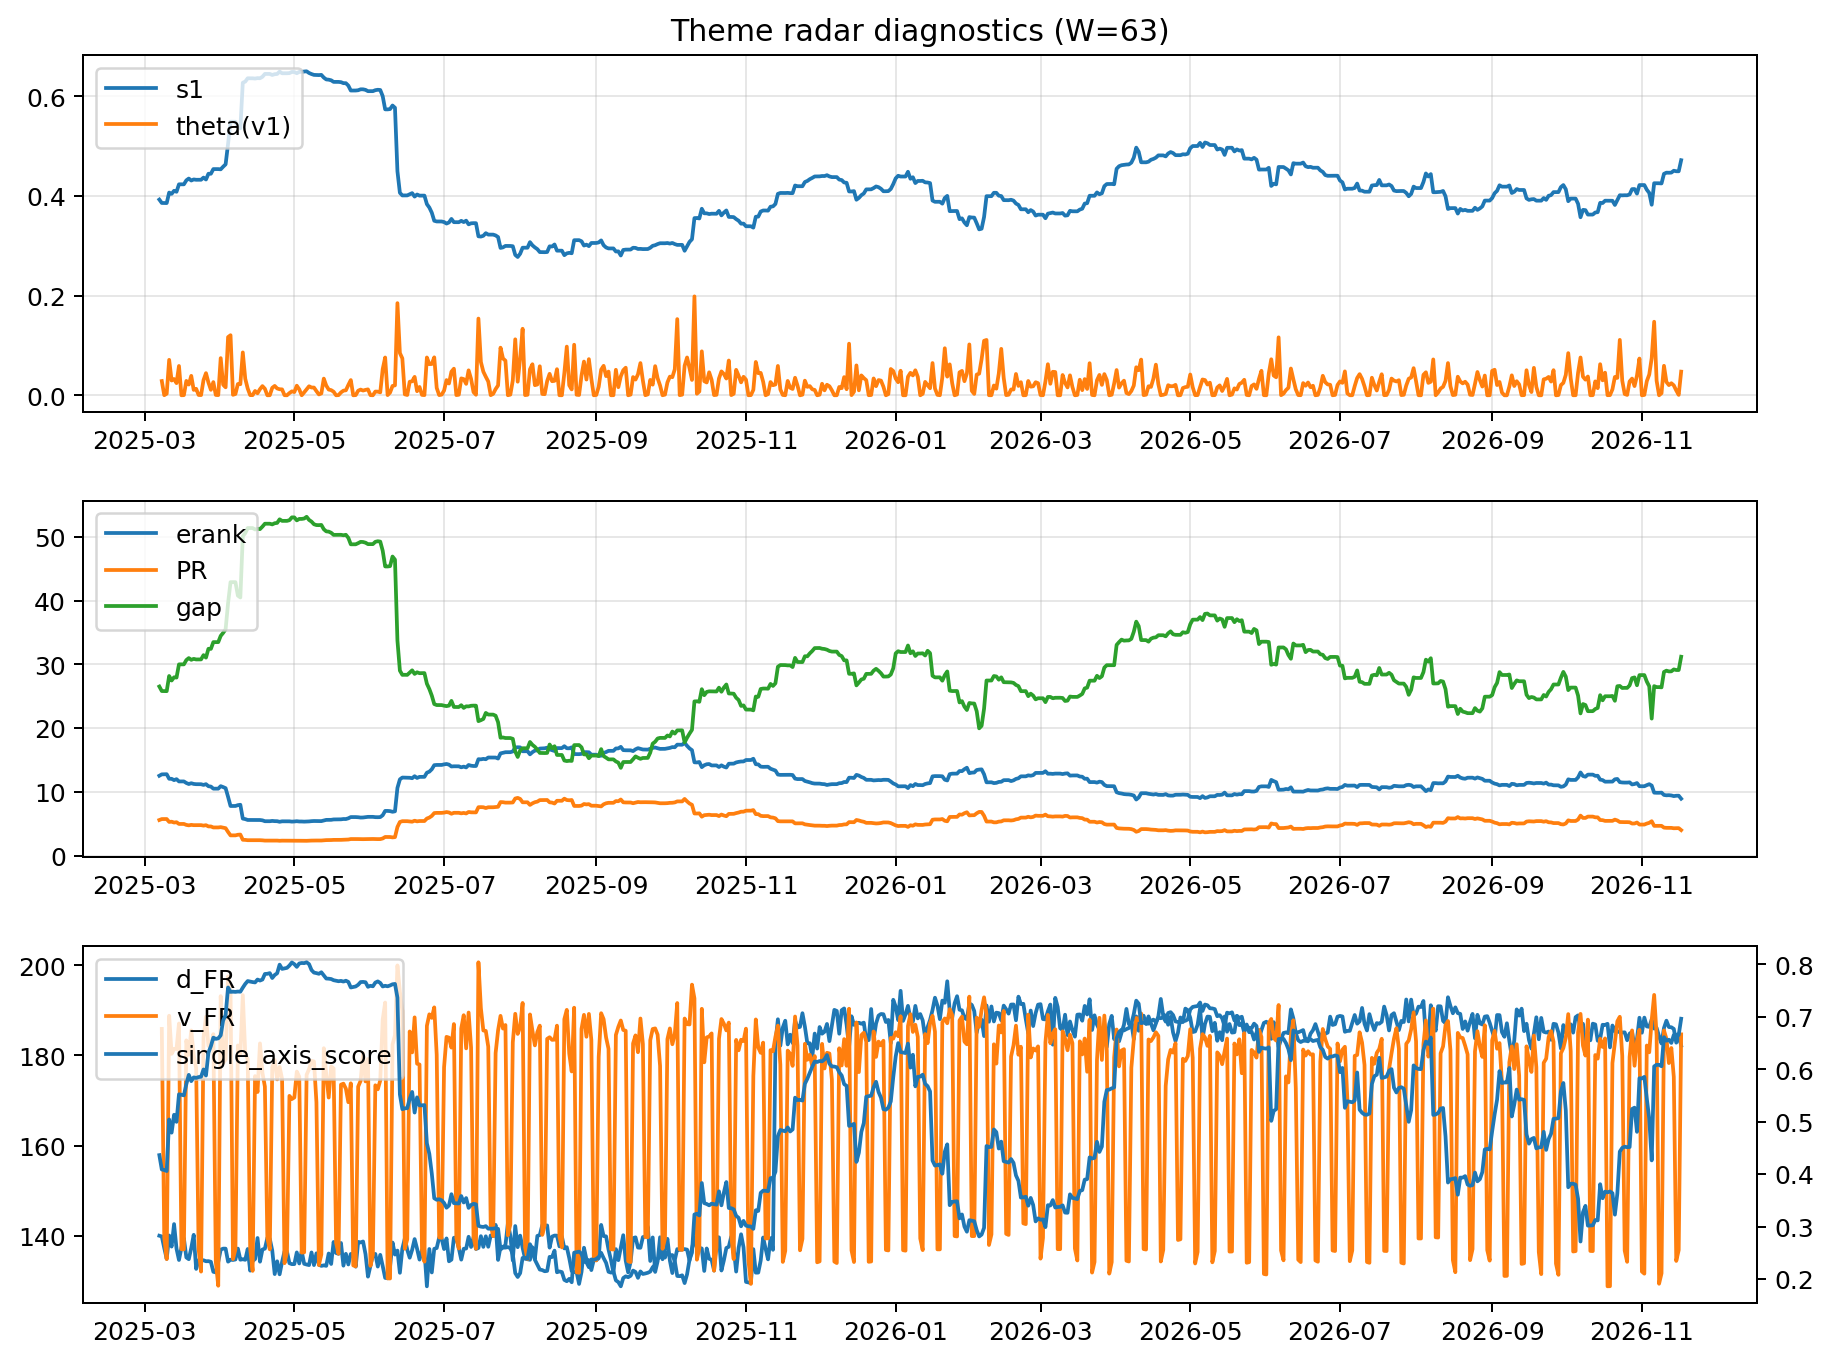
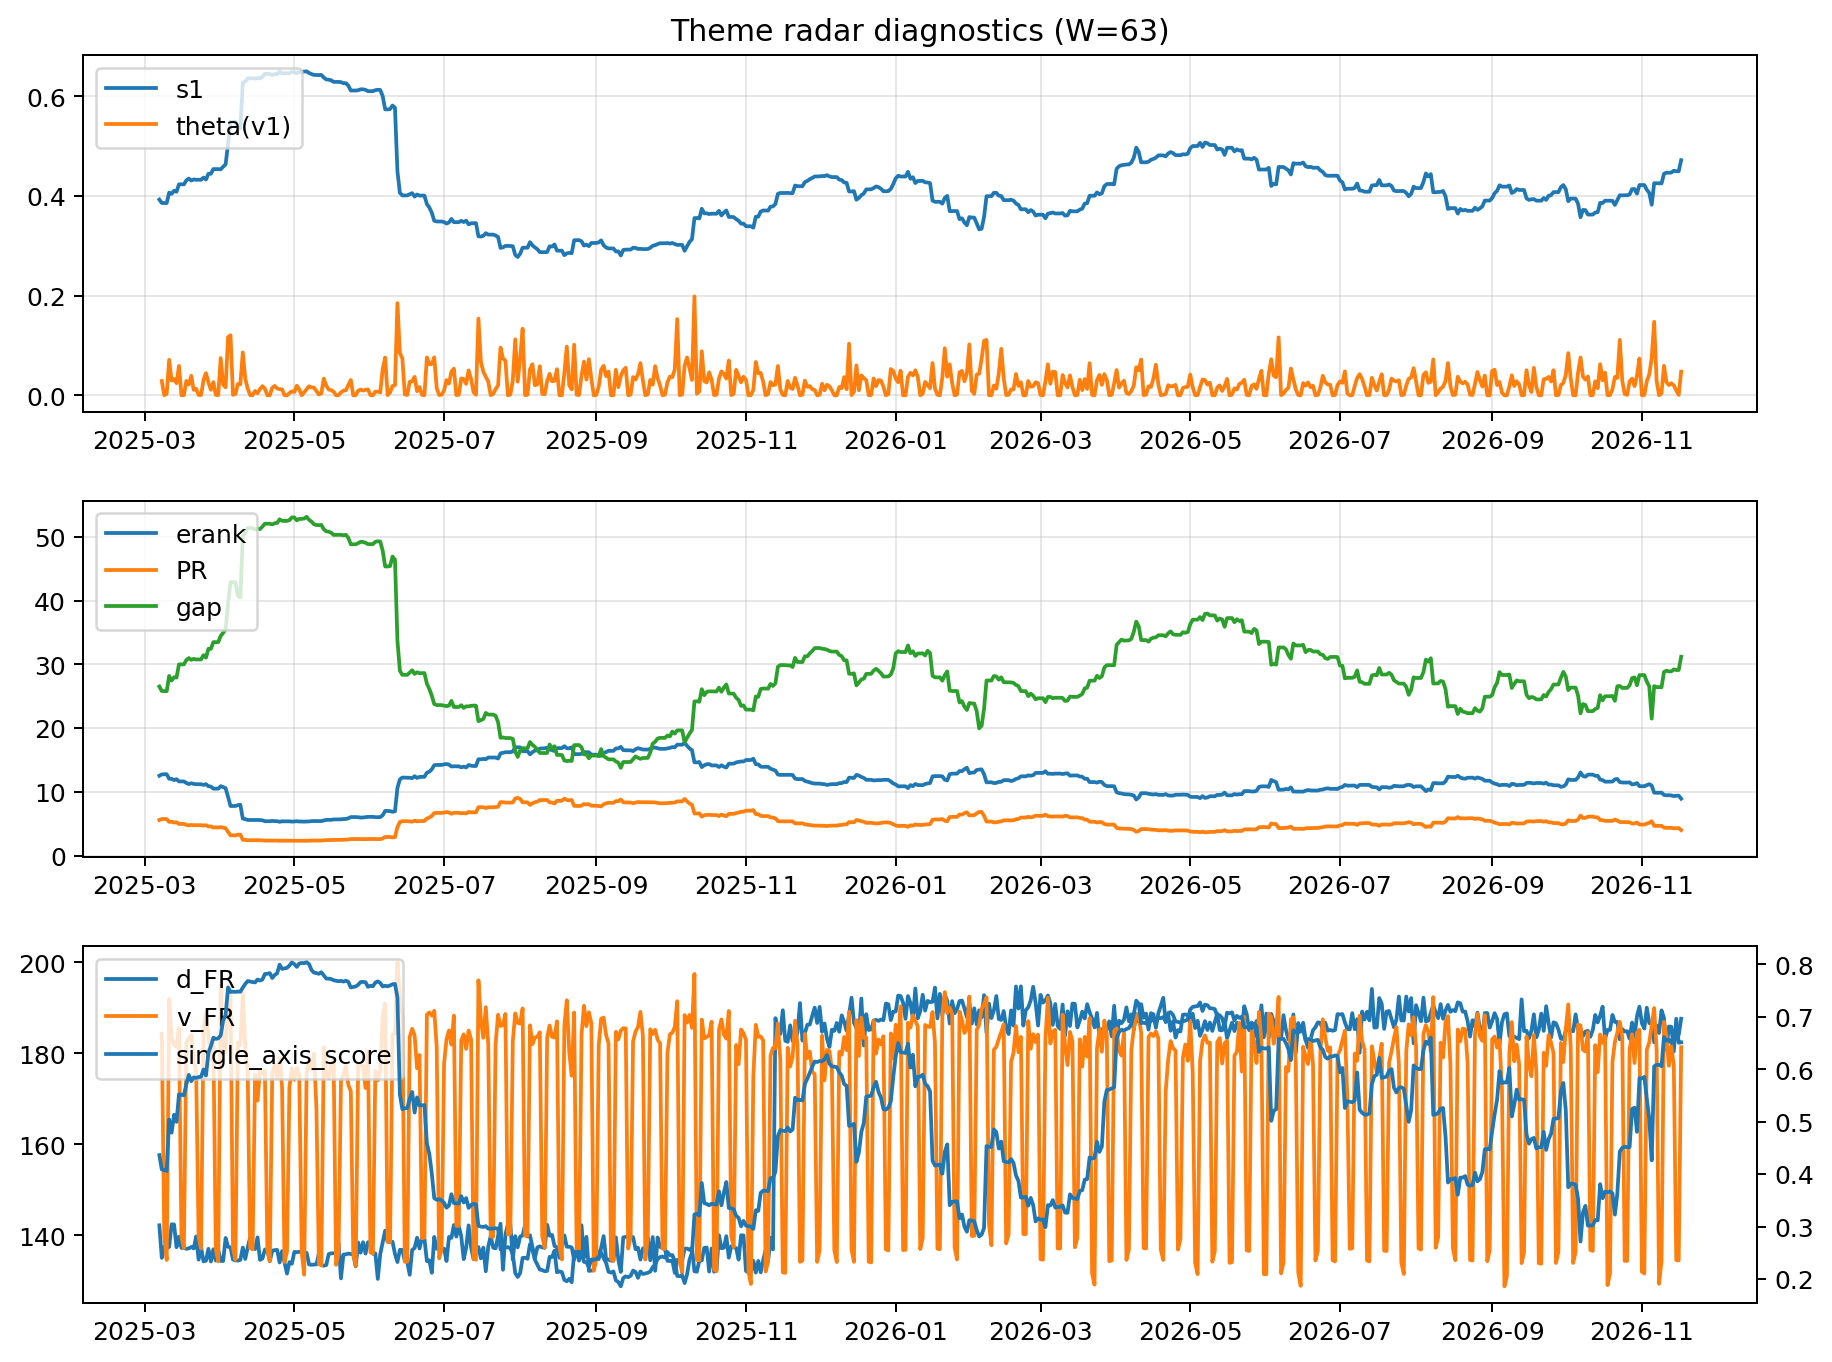
log: 2026-11-17 | sha256:022da19e59bba93126ec64060b907a9bd76befa7f79e3137b0c6b5e6e43047e9

diff --git a/logs/2026-11-17.md b/logs/2026-11-17.md
@@ -3,43 +3,43 @@
 ![diagnostic W63](../assets/diagnostic/2026-11-17_W63.png)
 
 ## Leaders (v1) — W=63
-- **Nuclear_Uranium** (0.0833542818167328)
-- Semis (0.0723185442806342)
-- Genomics_Bio (0.0600052389482603)
+- **Nuclear_Uranium** (0.0833542803853037)
+- Semis (0.0723185420905432)
+- Genomics_Bio (0.0600052381104242)
 
 ## Challengers — W=63
-**v2:** Rates (0.100856633629323), Metals (0.0743871503843705), Semis (0.067485460286482)
-**v3:** Rates (0.09550579218942), MegaCap_AI (0.0831232619544465), Nuclear_Uranium (0.0678648997480416)
+**v2:** Rates (0.1008566314099929), Metals (0.0743871447217634), Semis (0.0674854630540187)
+**v3:** Rates (0.0955058101220313), MegaCap_AI (0.0831232512490576), Nuclear_Uranium (0.0678648976266392)
 
 ## Migration (20D slope) — W=63
 **Top risers:**
-- axis_Genomics_Bio: 0.0007570777549387
-- axis_Software_Cloud: 0.0004569241694888
-- axis_Cyber: 0.0004348328819615
-- axis_Drones_Autonomy: 0.0004055749046865
-- axis_Defense: 0.000327547861665
-- axis_Nuclear_Uranium: 0.0002328268390195
-- axis_Sector_Fin: 0.0002182742795514
-- axis_Sector_Materials: 0.0001807265229359
-- axis_Sector_Comm: 0.0001616306674158
-- axis_Semis: 0.000160116452396
+- axis_Genomics_Bio: 0.0007570776445492
+- axis_Software_Cloud: 0.0004569241233075
+- axis_Cyber: 0.0004348328583937
+- axis_Drones_Autonomy: 0.0004055748786268
+- axis_Defense: 0.0003275478217514
+- axis_Nuclear_Uranium: 0.0002328267156321
+- axis_Sector_Fin: 0.0002182742746444
+- axis_Sector_Materials: 0.0001807265186735
+- axis_Sector_Comm: 0.0001616306382547
+- axis_Semis: 0.0001601162239904
 
 **Top fallers:**
-- axis_USD: -0.0001507308993573
-- axis_Grid_Power: -0.000159318068105
-- axis_Clean_Solar: -0.0001619770974455
-- axis_Credit: -0.0002003865738499
-- axis_Rates: -0.0002493948538889
-- axis_Commodities: -0.0002718937905737
-- axis_Miners: -0.0002750899294579
-- axis_Sector_ConsStap: -0.0003104672092199
-- axis_Sector_Energy: -0.0003494999598213
-- axis_Metals: -0.0010631963184424
+- axis_USD: -0.0001507308753026
+- axis_Grid_Power: -0.000159318236329
+- axis_Clean_Solar: -0.0001619771133584
+- axis_Credit: -0.0002003865525552
+- axis_Rates: -0.0002493927326815
+- axis_Commodities: -0.0002718938349186
+- axis_Miners: -0.0002750899732652
+- axis_Sector_ConsStap: -0.0003104672429246
+- axis_Sector_Energy: -0.0003494999608593
+- axis_Metals: -0.0010631963681581
 
 ## Risk line (W=63)
-- s1: 0.4715983020313898
-- theta_v1: 0.0474601453867612
-- v_FR: 184.65715794036632
+- s1: 0.47159830344749
+- theta_v1: 0.047460143892604
+- v_FR: 181.3680116341638
 - single_axis_score: 0.6959742351046699
 
 ## Interpretation
@@ -48,7 +48,7 @@
 - Action: Tomorrow watchlist: Genomics_Bio, Software_Cloud, Cyber, Drones_Autonomy, Defense + v2_top1=Rates
 - Action: Hedge note: normal correlation stability.
 
-- Percentiles (W=63 history): vfr_pct=0.75, theta_pct=0.85, s1_pct=0.81, score_pct=0.84.
+- Percentiles (W=63 history): vfr_pct=0.53, theta_pct=0.85, s1_pct=0.81, score_pct=0.84.
 
 ---
[2 lines of base64/hex data omitted]
